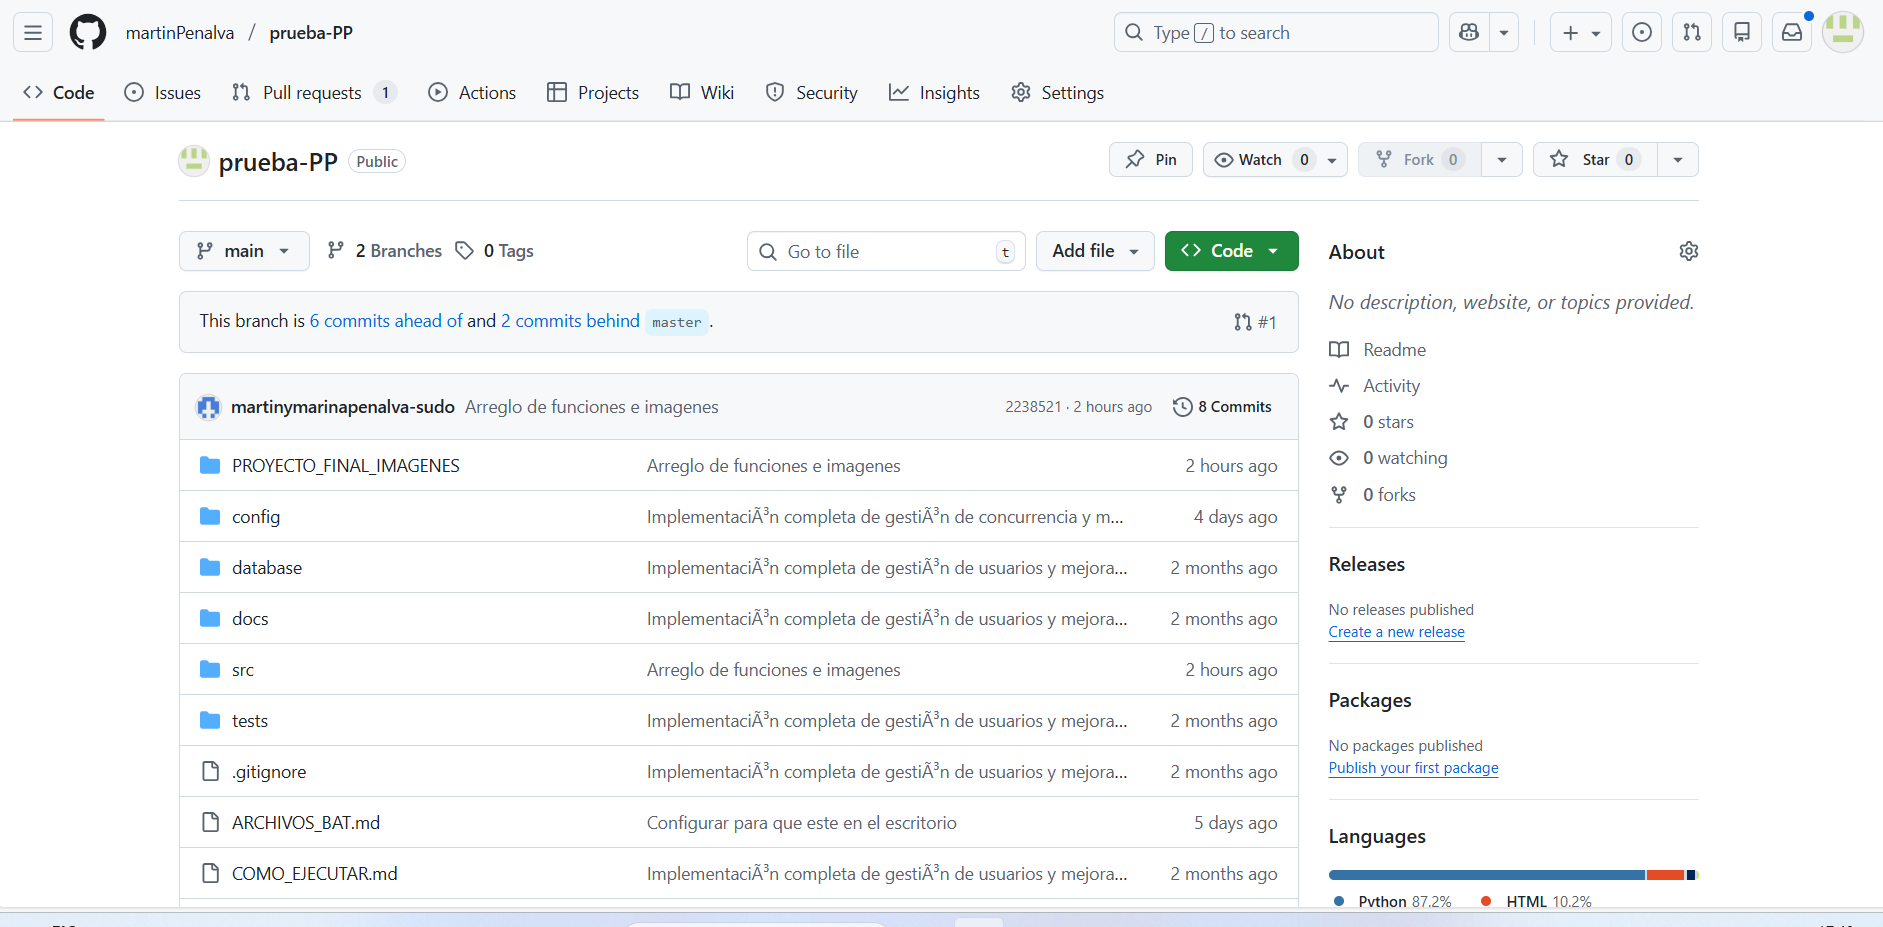
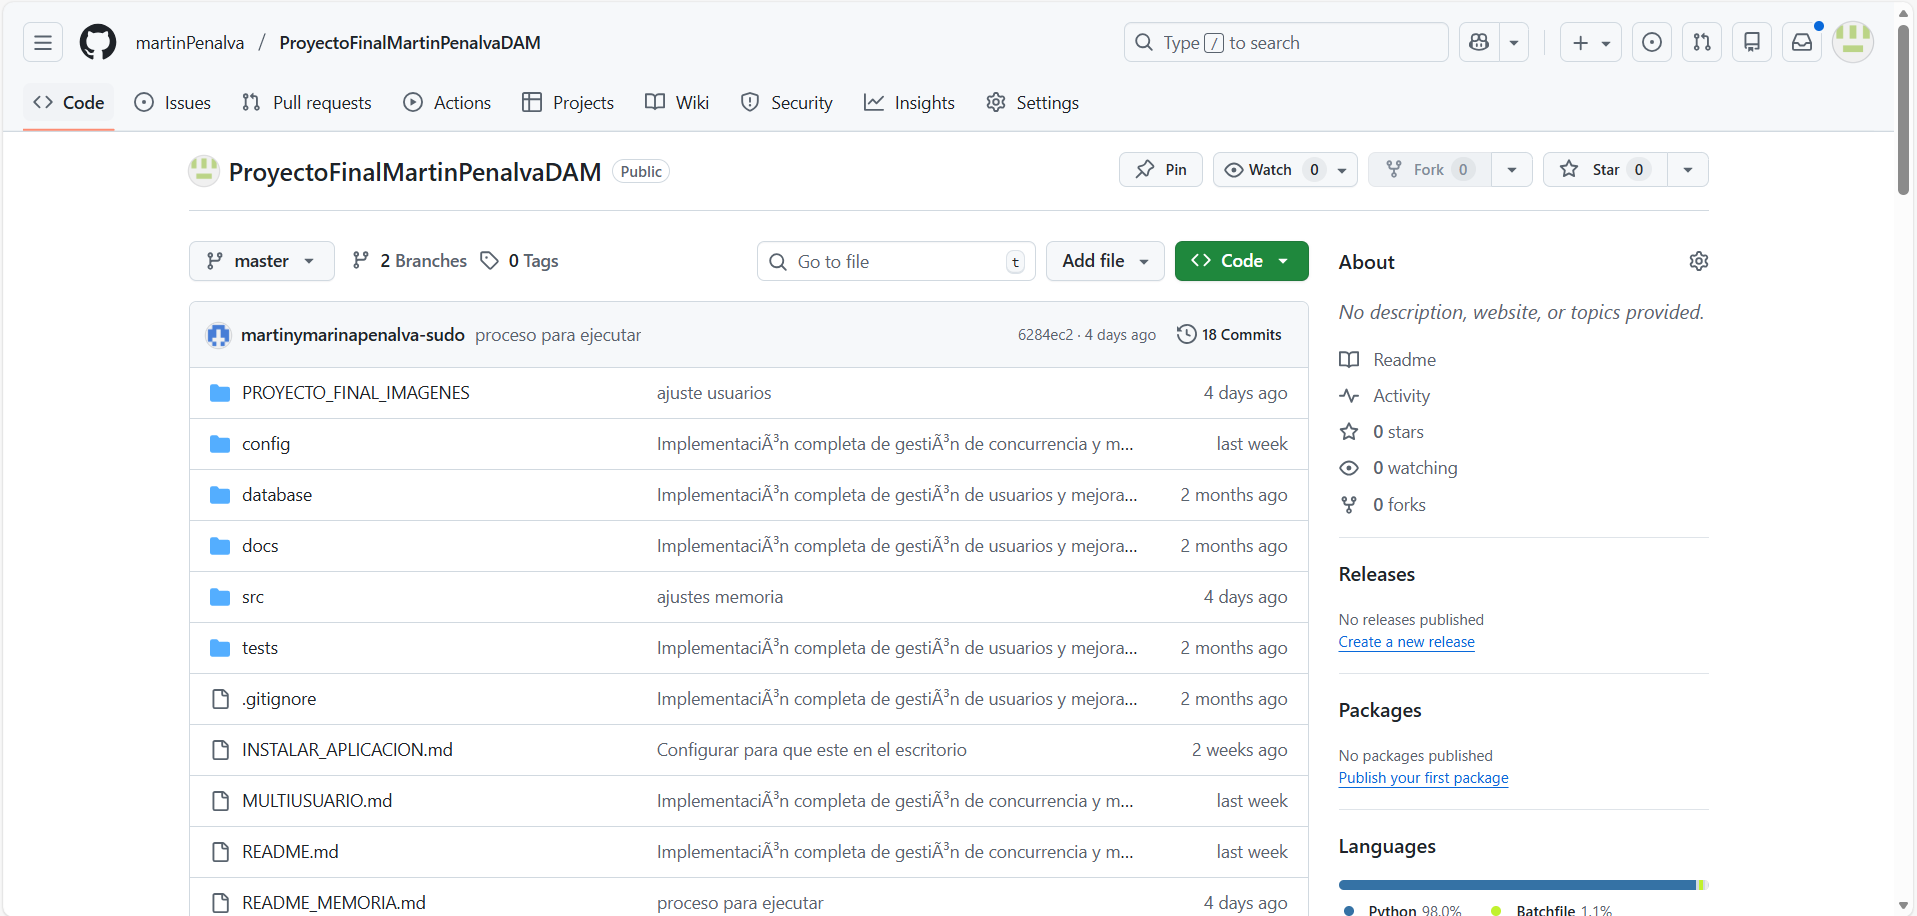
ajustes en la memoria

diff --git a/README_MEMORIA.md b/README_MEMORIA.md
@@ -39,7 +39,7 @@
 
 <br>
 
-**Repositorio del Proyecto:** [https://github.com/martinPenalva/prueba-PP.git](https://github.com/martinPenalva/prueba-PP.git)
+**Repositorio del Proyecto:** [https://github.com/martinPenalva/ProyectoFinalMartinPenalvaDAM.git](https://github.com/martinPenalva/ProyectoFinalMartinPenalvaDAM.git)
 
 </div>
 
@@ -512,30 +512,38 @@ Para que la aplicación funcione correctamente, es necesario configurar la base 
    - Inserción del usuario administrador por defecto (username: `ADMIN`, contraseña: `ADMINISTRADOR`)
    - Datos de ejemplo para desarrollo y pruebas (opcional)
 
-**Paso 3: Configuración de Variables de Entorno**
+**Paso 3: Configuración de la Conexión a la Base de Datos**
 
-La aplicación utiliza el archivo `.env` para almacenar las credenciales de la base de datos de forma segura. Para configurarlo:
+Para configurar la conexión a la base de datos MySQL, es necesario modificar el archivo `config/config.py`:
 
-1. Crear un archivo llamado `.env` en la raíz del proyecto (al mismo nivel que `config/`)
-2. Agregar las siguientes variables con los valores correspondientes a tu instalación de MySQL:
+1. Abrir el archivo `config/config.py` con un editor de texto
+2. Localizar la sección `DB_CONFIG` (aproximadamente en las líneas 11-20)
+3. Modificar los siguientes valores según tu instalación de MySQL:
 
-```env
-# Configuración de Base de Datos MySQL
-DB_HOST=localhost
-DB_PORT=3306
-DB_USER=root
-DB_PASSWORD=tu_contraseña_mysql
-DB_NAME=eventos_locales
+```python
+DB_CONFIG = {
+    'host': 'localhost',           # Dirección del servidor MySQL (localhost si está en el mismo ordenador)
+    'port': 3306,                  # Puerto de MySQL (por defecto 3306, o 3309 según tu instalación)
+    'user': 'root',                # Usuario de MySQL
+    'password': 'tu_contraseña',   # Contraseña del usuario MySQL
+    'database': 'eventos_locales',  # Nombre de la base de datos
+    'charset': 'utf8mb4',
+    'collation': 'utf8mb4_unicode_ci',
+    'autocommit': False
+}
 ```
 
-**Valores por defecto (si no se crea el archivo .env):**
-- `DB_HOST`: localhost
-- `DB_PORT`: 3309
-- `DB_USER`: root
-- `DB_PASSWORD`: root
-- `DB_NAME`: eventos_locales
+**Valores por defecto:**
+- `host`: localhost
+- `port`: 3309
+- `user`: root
+- `password`: root
+- `database`: eventos_locales
 
-**Nota importante:** Si tu instalación de MySQL utiliza un puerto diferente al 3306 (por defecto) o 3309, asegúrate de especificarlo en `DB_PORT`. También es recomendable crear un usuario específico para la aplicación en lugar de usar `root` por razones de seguridad.
+**Nota importante:** 
+- Si tu instalación de MySQL utiliza un puerto diferente al 3306 (por defecto) o 3309, asegúrate de especificarlo en `port`
+- Es recomendable crear un usuario específico para la aplicación en lugar de usar `root` por razones de seguridad
+- Reemplaza `'tu_contraseña'` con la contraseña real de tu usuario MySQL
 
 **Paso 4: Ejecución de la Aplicación**
 
@@ -584,7 +592,7 @@ Para usuarios que no tienen Python instalado, se puede crear un ejecutable indep
 2. Si la conexión es exitosa, se mostrará la ventana de login
 3. Si hay un error de conexión, verificar:
    - Que MySQL Server esté ejecutándose
-   - Que las credenciales en el archivo `.env` sean correctas
+   - Que las credenciales en el archivo `config/config.py` sean correctas
    - Que el puerto especificado sea el correcto
    - Que la base de datos `eventos_locales` exista y tenga todas las tablas creadas
    - Que Python esté correctamente instalado y en el PATH del sistema (si se usa Opción 1 o 2)
@@ -594,8 +602,8 @@ Para usuarios que no tienen Python instalado, se puede crear un ejecutable indep
 - Contraseña: `ADMINISTRADOR`
 
 **Recomendaciones de Seguridad:**
-- No compartir el archivo `.env` en repositorios públicos (ya está incluido en `.gitignore`)
-- Usar un usuario MySQL específico para la aplicación con permisos limitados
+- Tener cuidado al compartir el archivo `config/config.py` ya que contiene credenciales de la base de datos
+- Usar un usuario MySQL específico para la aplicación con permisos limitados en lugar de usar `root`
 - Cambiar la contraseña del usuario administrador después del primer acceso
 - Realizar copias de seguridad periódicas de la base de datos
 
@@ -606,7 +614,7 @@ GitHub se ha utilizado como plataforma de control de versiones para almacenar y 
 <img src="PROYECTO_FINAL_IMAGENES/logo_Github.png" alt="Logotipo de GitHub" width="200"/>
 *Figura: Logotipo de GitHub*
 
-**Repositorio del Proyecto:** [https://github.com/martinPenalva/prueba-PP.git](https://github.com/martinPenalva/prueba-PP.git)
+**Repositorio del Proyecto:** [https://github.com/martinPenalva/ProyectoFinalMartinPenalvaDAM.git](https://github.com/martinPenalva/ProyectoFinalMartinPenalvaDAM.git)
 
 **Características principales:**
 - **Control de Versiones:** Utilizamos Git para mantener un historial completo de cambios en el código fuente, lo que nos permite mantener un registro de todas las modificaciones realizadas y colaborar de manera eficiente.
